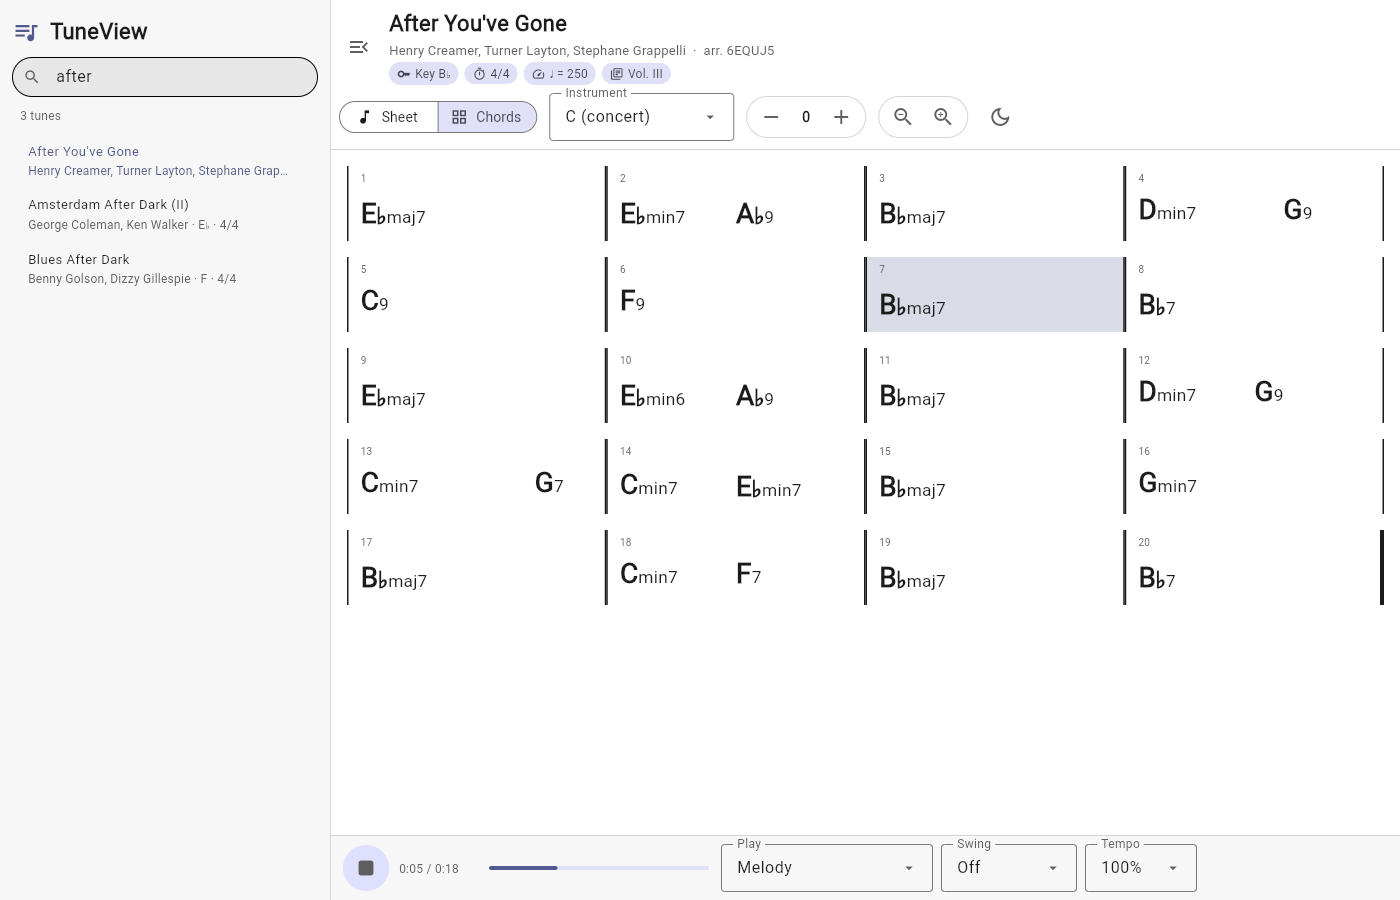
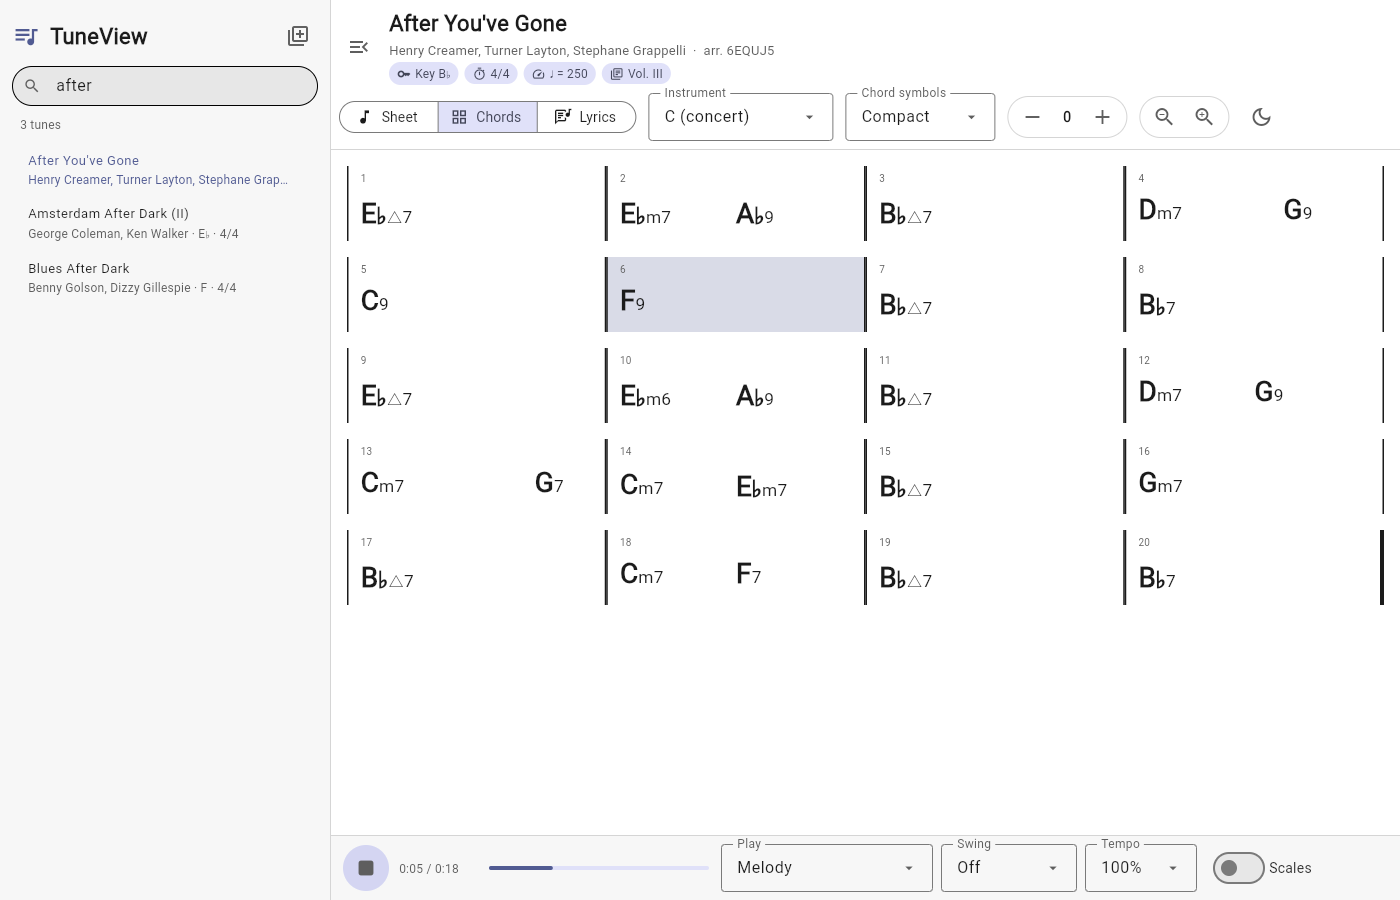
Refresh README screenshots; add scales and lyrics views

diff --git a/README.md b/README.md
@@ -14,6 +14,9 @@ way you need to play it:
 - **Lyrics**: the words in large print. Add or edit them with the Lyrics
   view's button: paste or type them, with a blank line between verses; a line
   like `[Chorus]` or `Verse 2:` on top of a verse becomes its heading.
+
+  ![The Lyrics view: the words in large print](docs/screenshot-lyrics.png)
+
 - **Transposition** for B♭, E♭ and F instruments, plus any extra shift in
   semitones. The notation, the chord chart and the displayed key all follow it.
 - **Chord symbols**: Compact (the default) spells them the jazz way: `Cm7`,
@@ -33,6 +36,9 @@ way you need to play it:
   Lydian) and by where a dominant resolves (into a minor chord → Phrygian
   dominant). Accidentals outside the key signature are printed above their
   notes.
+
+  ![Improvisation scales drawn over the bar being played, with their names in the transport bar](docs/screenshot-scales.png)
+
 - Instant search across title and composer, light and dark themes, and keyboard
   control that works with page-turner pedals.
 
